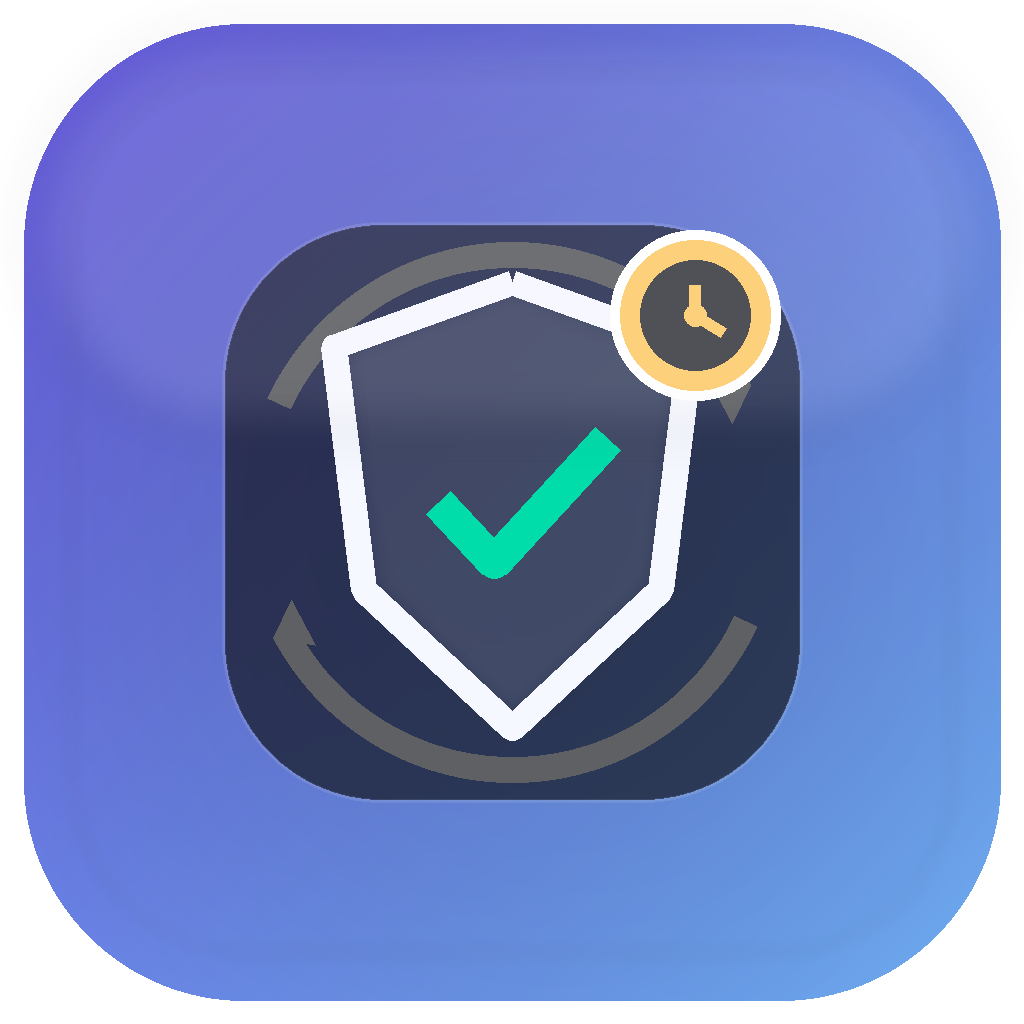
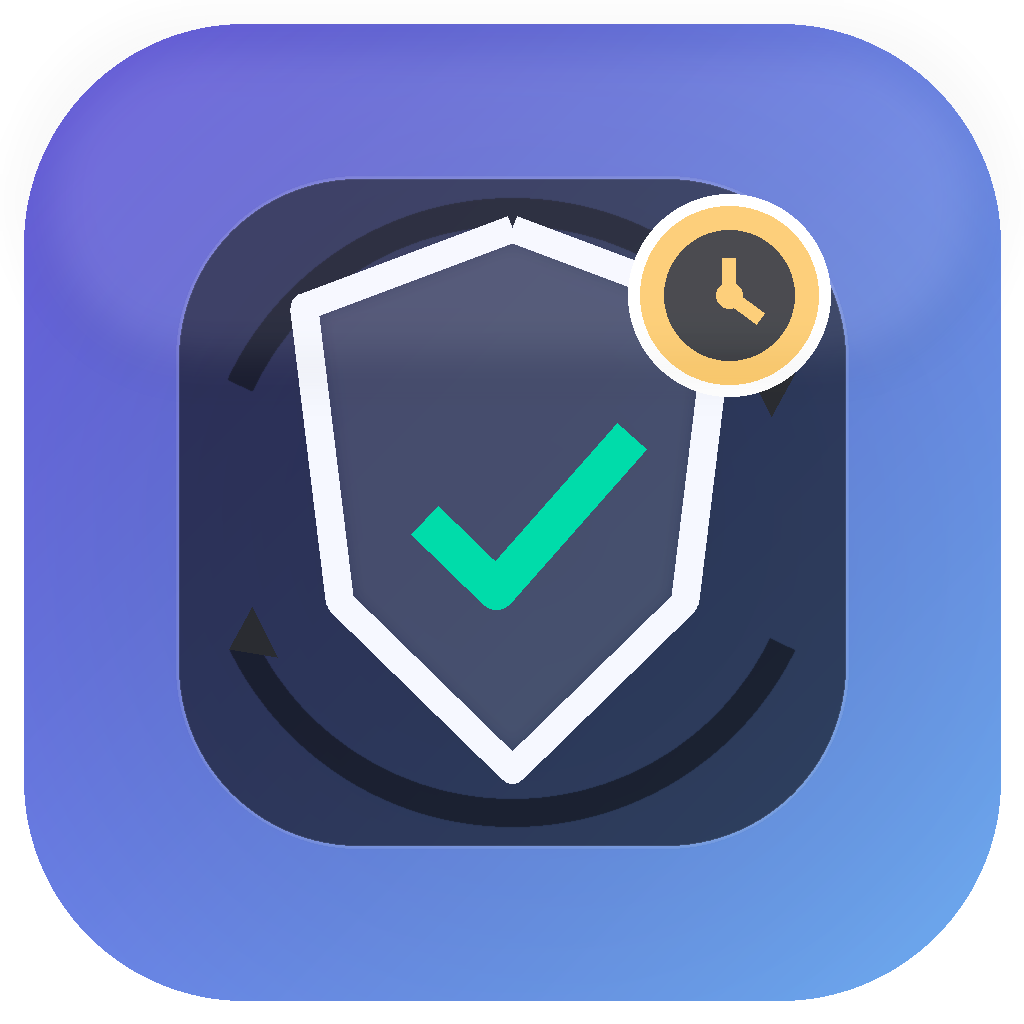
图标大小修改

Changed region(s): [[0.1562, 0.1562, 0.8438, 0.8438]]

diff --git a/src/views/icon.ts b/src/views/icon.ts
@@ -12,23 +12,23 @@ export const APP_ICON_SVG = `<svg width="1024" height="1024" viewBox="0 0 1024 1
       <stop stop-color="#6C5CE7"/>
       <stop offset="1" stop-color="#74B9FF"/>
     </linearGradient>
-    <filter id="blur24" x="310" y="258" width="404" height="494" filterUnits="userSpaceOnUse" color-interpolation-filters="sRGB">
+    <filter id="blur24" x="280" y="204" width="464" height="590" filterUnits="userSpaceOnUse" color-interpolation-filters="sRGB">
       <feGaussianBlur stdDeviation="12"/>
     </filter>
   </defs>
   <rect x="24" y="24" width="976" height="976" rx="220" fill="url(#bg)"/>
-  <path d="M273 634C308 736 404 810 512 810" stroke="white" stroke-opacity="0.16" stroke-width="26" stroke-linecap="round"/>
-  <path d="M752 390C715 286 619 214 512 214" stroke="white" stroke-opacity="0.16" stroke-width="26" stroke-linecap="round"/>
-  <path d="M712 230L774 246L744 302" fill="white" fill-opacity="0.22"/>
-  <path d="M313 794L250 776L280 720" fill="white" fill-opacity="0.22"/>
-  <rect x="222" y="222" width="580" height="580" rx="160" fill="#0F1117" fill-opacity="0.52" stroke="white" stroke-opacity="0.12" stroke-width="3"/>
-  <path d="M512 282L690 346L660 590L512 728L364 590L334 346L512 282Z" fill="white" fill-opacity="0.08" filter="url(#blur24)"/>
-  <path d="M512 282L690 346L660 590L512 728L364 590L334 346L512 282Z" stroke="#F5F7FF" stroke-width="24" stroke-linejoin="round"/>
-  <path d="M438 502L494 562L608 438" stroke="#00DCAA" stroke-width="34" stroke-linecap="round" stroke-linejoin="round"/>
-  <circle cx="695" cy="315" r="85" fill="#FDCB6E" stroke="white" stroke-opacity="0.82" stroke-width="10"/>
-  <circle cx="695" cy="315" r="55" fill="#0F1117" fill-opacity="0.86"/>
-  <path d="M695 315V285" stroke="#FDCB6E" stroke-width="12" stroke-linecap="round"/>
-  <path d="M695 315L723 332" stroke="#FDCB6E" stroke-width="12" stroke-linecap="round"/>
-  <circle cx="695" cy="315" r="11" fill="#FDCB6E"/>
-  <path d="M64 64H960C960 230 810 348 640 348H384C214 348 64 230 64 64Z" fill="white" fill-opacity="0.05"/>
+  <path d="M227 642C268 766 381 850 512 850" stroke="white" stroke-opacity="0.16" stroke-width="28" stroke-linecap="round"/>
+  <path d="M798 382C755 258 642 174 512 174" stroke="white" stroke-opacity="0.16" stroke-width="28" stroke-linecap="round"/>
+  <path d="M754 200L826 220L790 286" fill="#12141A" fill-opacity="0.68"/>
+  <path d="M270 824L198 804L234 738" fill="#12141A" fill-opacity="0.68"/>
+  <rect x="176" y="176" width="672" height="672" rx="182" fill="#0F1117" fill-opacity="0.50" stroke="white" stroke-opacity="0.12" stroke-width="3"/>
+  <path d="M512 228L720 306L684 602L512 770L340 602L304 306L512 228Z" fill="white" fill-opacity="0.08" filter="url(#blur24)"/>
+  <path d="M512 228L720 306L684 602L512 770L340 602L304 306L512 228Z" stroke="#F5F7FF" stroke-width="28" stroke-linejoin="round"/>
+  <path d="M424 520L496 590L632 436" stroke="#00DCAA" stroke-width="40" stroke-linecap="round" stroke-linejoin="round"/>
+  <circle cx="729" cy="295" r="101" fill="#FDCB6E" stroke="white" stroke-opacity="0.84" stroke-width="12"/>
+  <circle cx="729" cy="295" r="65" fill="#0F1117" fill-opacity="0.88"/>
+  <path d="M729 295V258" stroke="#FDCB6E" stroke-width="14" stroke-linecap="round"/>
+  <path d="M729 295L760 318" stroke="#FDCB6E" stroke-width="14" stroke-linecap="round"/>
+  <circle cx="729" cy="295" r="13" fill="#FDCB6E"/>
+  <path d="M64 64H960C960 212 820 320 652 320H372C204 320 64 212 64 64Z" fill="white" fill-opacity="0.05"/>
 </svg>`;
